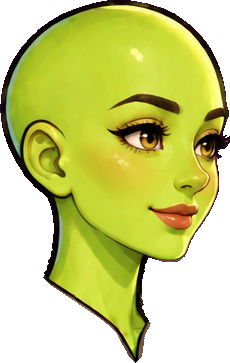
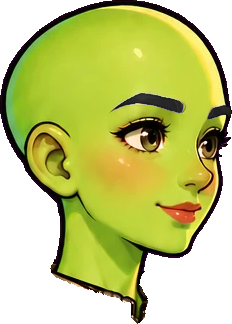
Brows and scars as layers; blue redos of short, wavy and top-knot
- Faces use the blue-brow, scar-free edits; brows are lifted into a layer
  that follows hair colour (Aldric, Garrett, Rowan, Mira).
- Scars are optional layers (Aldric, Garrett) multiplied onto the skin,
  with a Scar checkbox and scar=1 in the recipe.
- New colour-only extractor (tools/extract_by_hue.py) for edits where
  ChatGPT redrew the whole image.

diff --git a/preview-character/index.html b/preview-character/index.html
@@ -64,6 +64,7 @@
     <label class="field">Race <select id="race"></select></label>
     <label class="field">Face <select id="face"></select></label>
     <div class="field">Skin <span id="skinNote"></span><div class="swatches" id="skins"></div></div>
+    <div class="check" id="scarRow"><input type="checkbox" id="scar"><label for="scar">Scar</label></div>
     <label class="field">Outfit <select id="outfit"></select></label>
     <label class="field">Hairstyle <select id="hair"></select></label>
     <div class="field">Hair colour<div class="swatches" id="colours"></div></div>
@@ -143,12 +144,13 @@ function skinned(part, skinId) {
 }
 
 // Hair: gradient map over the part's own luminance range.
-function haired(hair, colour) {
-  const key = hair.id + '|' + colour;
+function haired(hair, colour) { return gradientPart(hair.part.file, hair.lum, colour); }
+function gradientPart(file, lum, colour) {
+  const key = file + '|' + colour;
   if (cache[key]) return cache[key];
-  const c = canvasOf(img[hair.part.file]), g = c.getContext('2d');
+  const c = canvasOf(img[file]), g = c.getContext('2d');
   const d = g.getImageData(0, 0, c.width, c.height), p = d.data, ramp = M.hair_colours[colour];
-  const [lo, hi] = hair.lum, span = Math.max(hi - lo, 1), n = ramp.length - 1;
+  const [lo, hi] = lum, span = Math.max(hi - lo, 1), n = ramp.length - 1;
   for (let i = 0; i < p.length; i += 4) {
     if (!p[i + 3]) continue;
     const t = Math.min(1, Math.max(0, ((p[i] * .299 + p[i + 1] * .587 + p[i + 2] * .114) - lo) / span)) * n;
@@ -172,6 +174,11 @@ function compose() {
   const put = (part, src, dx = 0, dy = 0) => g.drawImage(src, part.x + dx, part.y + dy);
   if (body && body.back) put(body.back, skinned(body.back, state.skin));
   put(face.part, skinned(face.part, skin));
+  if (face.scar && state.scar) {  // multiply: scar reads as a darker, redder line on any skin
+    g.save(); g.globalCompositeOperation = 'multiply'; g.globalAlpha = 0.85;
+    put(face.scar, img[face.scar.file]); g.restore();
+  }
+  if (face.brows) put(face.brows, gradientPart(face.brows.file, face.brows.lum, state.hairCol));
   if (body) put(body.part, skinned(body.part, body.lime ? state.skin : null));
   if (face.beard) put(face.beard, img[face.beard.file]);
   const hair = byId(M.hairs, state.hair);
@@ -200,7 +207,7 @@ function render() {
   p.drawImage(c, sx - 270, sy - 70, 540, 540, 0, 0, 512, 512);
 
   const recipe = `race=${state.race}&face=${state.face}&skin=${state.skin}&outfit=${state.outfit}` +
-    `&hair=${state.hair || 'none'}&hair_col=${state.hairCol}`;
+    `&hair=${state.hair || 'none'}&hair_col=${state.hairCol}` + (state.scar && face.scar ? '&scar=1' : '');
   $('recipe').textContent = recipe;
   history.replaceState(null, '', '#' + recipe);
 }
@@ -218,6 +225,8 @@ function sync() {
     `<button class="swatch" data-s="${s}" title="${s}" aria-label="${s}" aria-pressed="${s === state.skin}" ` +
     `style="background:rgb(${M.skins[s].rgb.join(',')})"></button>`).join('') : '';
   $('skinNote').textContent = face.lime ? '' : '(fixed on this face)';
+  $('scarRow').style.display = face.scar ? '' : 'none';
+  $('scar').checked = !!state.scar;
   const bodies = bodiesFor(face);
   if (!bodies.some(b => b.id === state.outfit)) state.outfit = bodies[0].id;
   $('outfit').innerHTML = bodies.map(b => `<option value="${b.id}">${b.label}</option>`).join('');
@@ -240,7 +249,7 @@ function generate(rand) {
   const pick = a => a[Math.floor(rand() * a.length)];
   const race = pick(Object.keys(M.races)), face = pick(facesFor(race));
   state = { race, face: face.id, skin: pick(M.races[race].skins), outfit: pick(bodiesFor(face)).id,
-    hair: rand() < 0.12 ? '' : pick(hairsFor(face)).id, hairCol: pick(M.races[race].hair) };
+    hair: rand() < 0.12 ? '' : pick(hairsFor(face)).id, hairCol: pick(M.races[race].hair), scar: rand() < 0.25 };
   sync();
 }
 
@@ -248,13 +257,13 @@ function fromHash() {
   const q = new URLSearchParams(location.hash.slice(1));
   if (!q.get('face') || !M.races[q.get('race')]) return false;
   state = { race: q.get('race'), face: q.get('face'), skin: q.get('skin'), outfit: q.get('outfit'),
-    hair: q.get('hair') === 'none' ? '' : q.get('hair'), hairCol: q.get('hair_col') || 'brown' };
+    hair: q.get('hair') === 'none' ? '' : q.get('hair'), hairCol: q.get('hair_col') || 'brown', scar: q.get('scar') === '1' };
   return byId(M.faces, state.face) && byId(M.bodies, state.outfit);
 }
 
 (async () => {
   M = await (await fetch('manifest.json', { cache: 'no-cache' })).json();
-  const parts = [...M.faces.flatMap(f => [f.part, f.beard]), ...M.bodies.flatMap(b => [b.part, b.back]),
+  const parts = [...M.faces.flatMap(f => [f.part, f.beard, f.brows, f.scar]), ...M.bodies.flatMap(b => [b.part, b.back]),
     ...Object.values(M.ears).map(e => e.part), ...M.hairs.map(h => h.part)].filter(Boolean);
   await Promise.all(parts.flatMap(p => [p.file, p.skin_mask]).filter(Boolean).map(load));
 
@@ -266,12 +275,13 @@ function fromHash() {
   $('outfit').onchange = e => { state.outfit = e.target.value; render(); };
   $('hair').onchange = e => { state.hair = e.target.value; render(); };
   $('raceSize').onchange = render;
+  $('scar').onchange = e => { state.scar = e.target.checked; render(); };
   $('colours').onclick = e => { const c = e.target.dataset.c; if (c) { state.hairCol = c; sync(); } };
   $('random').onclick = () => { const s = Math.floor(Math.random() * 1e6); $('seed').value = s; generate(mulberry32(s)); };
   $('fromSeed').onclick = () => generate(mulberry32(+$('seed').value || 0));
   $('copy').onclick = () => navigator.clipboard && navigator.clipboard.writeText(location.href);
 
-  if (!fromHash()) state = { race: 'human', face: 'aldric', skin: 'fair', outfit: 'knight_m', hair: 'short01', hairCol: 'blond' };
+  if (!fromHash()) state = { race: 'human', face: 'aldric', skin: 'fair', outfit: 'knight_m', hair: 'short02', hairCol: 'blond', scar: true };
   sync();
   window.addEventListener('hashchange', () => { if (fromHash()) sync(); });
 })();

diff --git a/tools/build_preview.py b/tools/build_preview.py
@@ -37,13 +37,15 @@ TEMPLATES = {"m": {"cut": 345}, "f": {"cut": 332}}
 
 # id, file, label, template, races it suits (None = any). All lime-skin edits.
 FACES = [
-    ("aldric", "aldric_bald_limekey", "Aldric", "m", None),
+    ("aldric", "aldric_bluebrow", "Aldric", "m", None),
     ("bran", "male_face02_cleric", "Bran", "m", None),
-    ("garrett", "male_face03_cleric", "Garrett", "m", None),
+    ("garrett", "garrett_bluebrow", "Garrett", "m", None),
     ("brug", "ogre_lime_01", "Brug", "m", ["ogre"]),
-    ("rowan", "human_f_lime_01", "Rowan", "f", None),
-    ("mira", "female_face02_cleric", "Mira", "f", None),
+    ("rowan", "rowan_bluebrow", "Rowan", "f", None),
+    ("mira", "mira_bluebrow", "Mira", "f", None),
 ]
+BROWS = {"aldric", "garrett", "rowan", "mira"}   # art/parts/brows/brows_<id>.png (blue key)
+SCARS = {"aldric", "garrett"}                     # art/parts/scars/scar_<id>.png (optional layer)
 
 # id, file, label, template
 BODIES = [
@@ -84,9 +86,9 @@ SKINS = {  # mid-tone sRGB of each skin; converted to Lab for the page
 }
 
 HAIRS = [
-    ("short01", "Short", ["m"], "aldric_bald_01"),
-    ("wavy01", "Wavy", ["m"], "aldric_bald_01"),
-    ("topknot01", "Top-knot", ["m"], "aldric_bald_01"),
+    ("short02", "Short", ["m"], "aldric_bald_limekey", 8),
+    ("wavy02", "Long wavy", ["m"], "aldric_bald_limekey", -4),
+    ("topknot02", "Top-knot", ["m"], "aldric_bald_limekey"),
     ("ponytail02", "Ponytail", ["m"], "aldric_bald_01"),
     ("slicked01", "Slicked back", ["m"], "aldric_bald_01"),
     ("shaggy01", "Shaggy", ["m"], "aldric_bald_01"),
@@ -220,7 +222,19 @@ def main():
         a = keyed(SRC / f"{fname}.png")
         head = a.copy()
         head[~head_mask(a, TEMPLATES[tpl]["cut"]), 3] = 0
-        faces.append({"id": fid, "label": label, "template": tpl, "group": tpl, "skull": skull(a), "races": races,
+        if fid in BROWS:  # neutralise faint blue brow edges left on the face under the brow layer
+            h, sat, _ = _hsv(head)
+            tint = (h >= 170) & (h <= 275) & (sat > 0.1)
+            tint[300:] = False
+            grey = head[..., :3].mean(2).astype(np.uint8) // 2
+            head[tint, 0] = head[tint, 1] = head[tint, 2] = grey[tint]
+        extra = {}
+        if fid in BROWS:
+            b = np.asarray(Image.open(PARTS / "brows" / f"brows_{fid}.png").convert("RGBA")).copy()
+            extra["brows"] = {**save_part(b, f"brows_{fid}"), "lum": lum_range(b)}
+        if fid in SCARS:
+            extra["scar"] = save_part(np.asarray(Image.open(PARTS / "scars" / f"scar_{fid}.png").convert("RGBA")).copy(), f"scar_{fid}")
+        faces.append({**extra, "id": fid, "label": label, "template": tpl, "group": tpl, "skull": skull(a), "races": races,
                       "lime": True, "part": save_part(head, f"head_{fid}", True, hue_lo=40)})
 
     bodies = []
@@ -256,9 +270,10 @@ def main():
         ears[e] = {"ref_skull": ref_skulls["aldric_bald_limekey"], "part": save_part(a, f"ears_{e}", True, hue_lo=40)}
 
     hairs = []
-    for hid, label, fits, ref in HAIRS:
+    for hid, label, fits, ref, *shift in HAIRS:
         a = np.asarray(Image.open(PARTS / "hair" / f"hair_{hid}.png").convert("RGBA")).copy()
-        hairs.append({"id": hid, "label": label, "fits": fits, "ref_skull": ref_skulls[ref],
+        ry, rx = ref_skulls[ref]
+        hairs.append({"id": hid, "label": label, "fits": fits, "ref_skull": [ry, rx - (shift[0] if shift else 0)],
                       "lum": lum_range(a), "part": save_part(a, f"hair_{hid}")})
 
     skins = {k: {"rgb": list(v), "lab": [round(float(x), 2) for x in rgb2lab(np.array([[v]], float))[0, 0]]}

diff --git a/tools/extract_by_hue.py b/tools/extract_by_hue.py
@@ -1,0 +1,40 @@
+"""Extract a blue-keyed part (hair, brows) by colour alone, for edits where ChatGPT
+redrew the whole image so a before/after diff doesn't isolate it.
+
+Usage: python tools/extract_by_hue.py SRC.png OUT.png --ylimit 345 [--smin 0.45]
+"""
+import argparse
+
+import numpy as np
+from PIL import Image
+from scipy import ndimage
+
+from extract_hair import defringe
+from skin import _hsv
+
+
+def extract(src, out, ylimit, smin=0.45, hue=(195, 255), min_comp=40):
+    a = np.asarray(Image.open(src).convert("RGBA")).copy()
+    h, s, v = _hsv(a)
+    m = (h >= hue[0]) & (h <= hue[1]) & (s > smin) & (v > 0.2)
+    m[ylimit:] = False
+    labels, n = ndimage.label(m)
+    if n:
+        sizes = ndimage.sum(m, labels, range(1, n + 1))
+        m = np.isin(labels, 1 + np.flatnonzero(sizes >= min_comp))
+    # include the dark outline / soft edge hugging the part
+    dark = a[..., :3].max(2) < 110
+    m |= ndimage.binary_dilation(m, iterations=2) & (dark | ((h >= 180) & (h <= 270) & (s > 0.2)))
+    m[ylimit:] = False
+    a[~m, 3] = 0
+    Image.fromarray(defringe(a)).save(out)
+    return int(m.sum())
+
+
+if __name__ == "__main__":
+    ap = argparse.ArgumentParser()
+    ap.add_argument("src"); ap.add_argument("out")
+    ap.add_argument("--ylimit", type=int, required=True)
+    ap.add_argument("--smin", type=float, default=0.45)
+    a = ap.parse_args()
+    print("px", extract(a.src, a.out, a.ylimit, a.smin))
